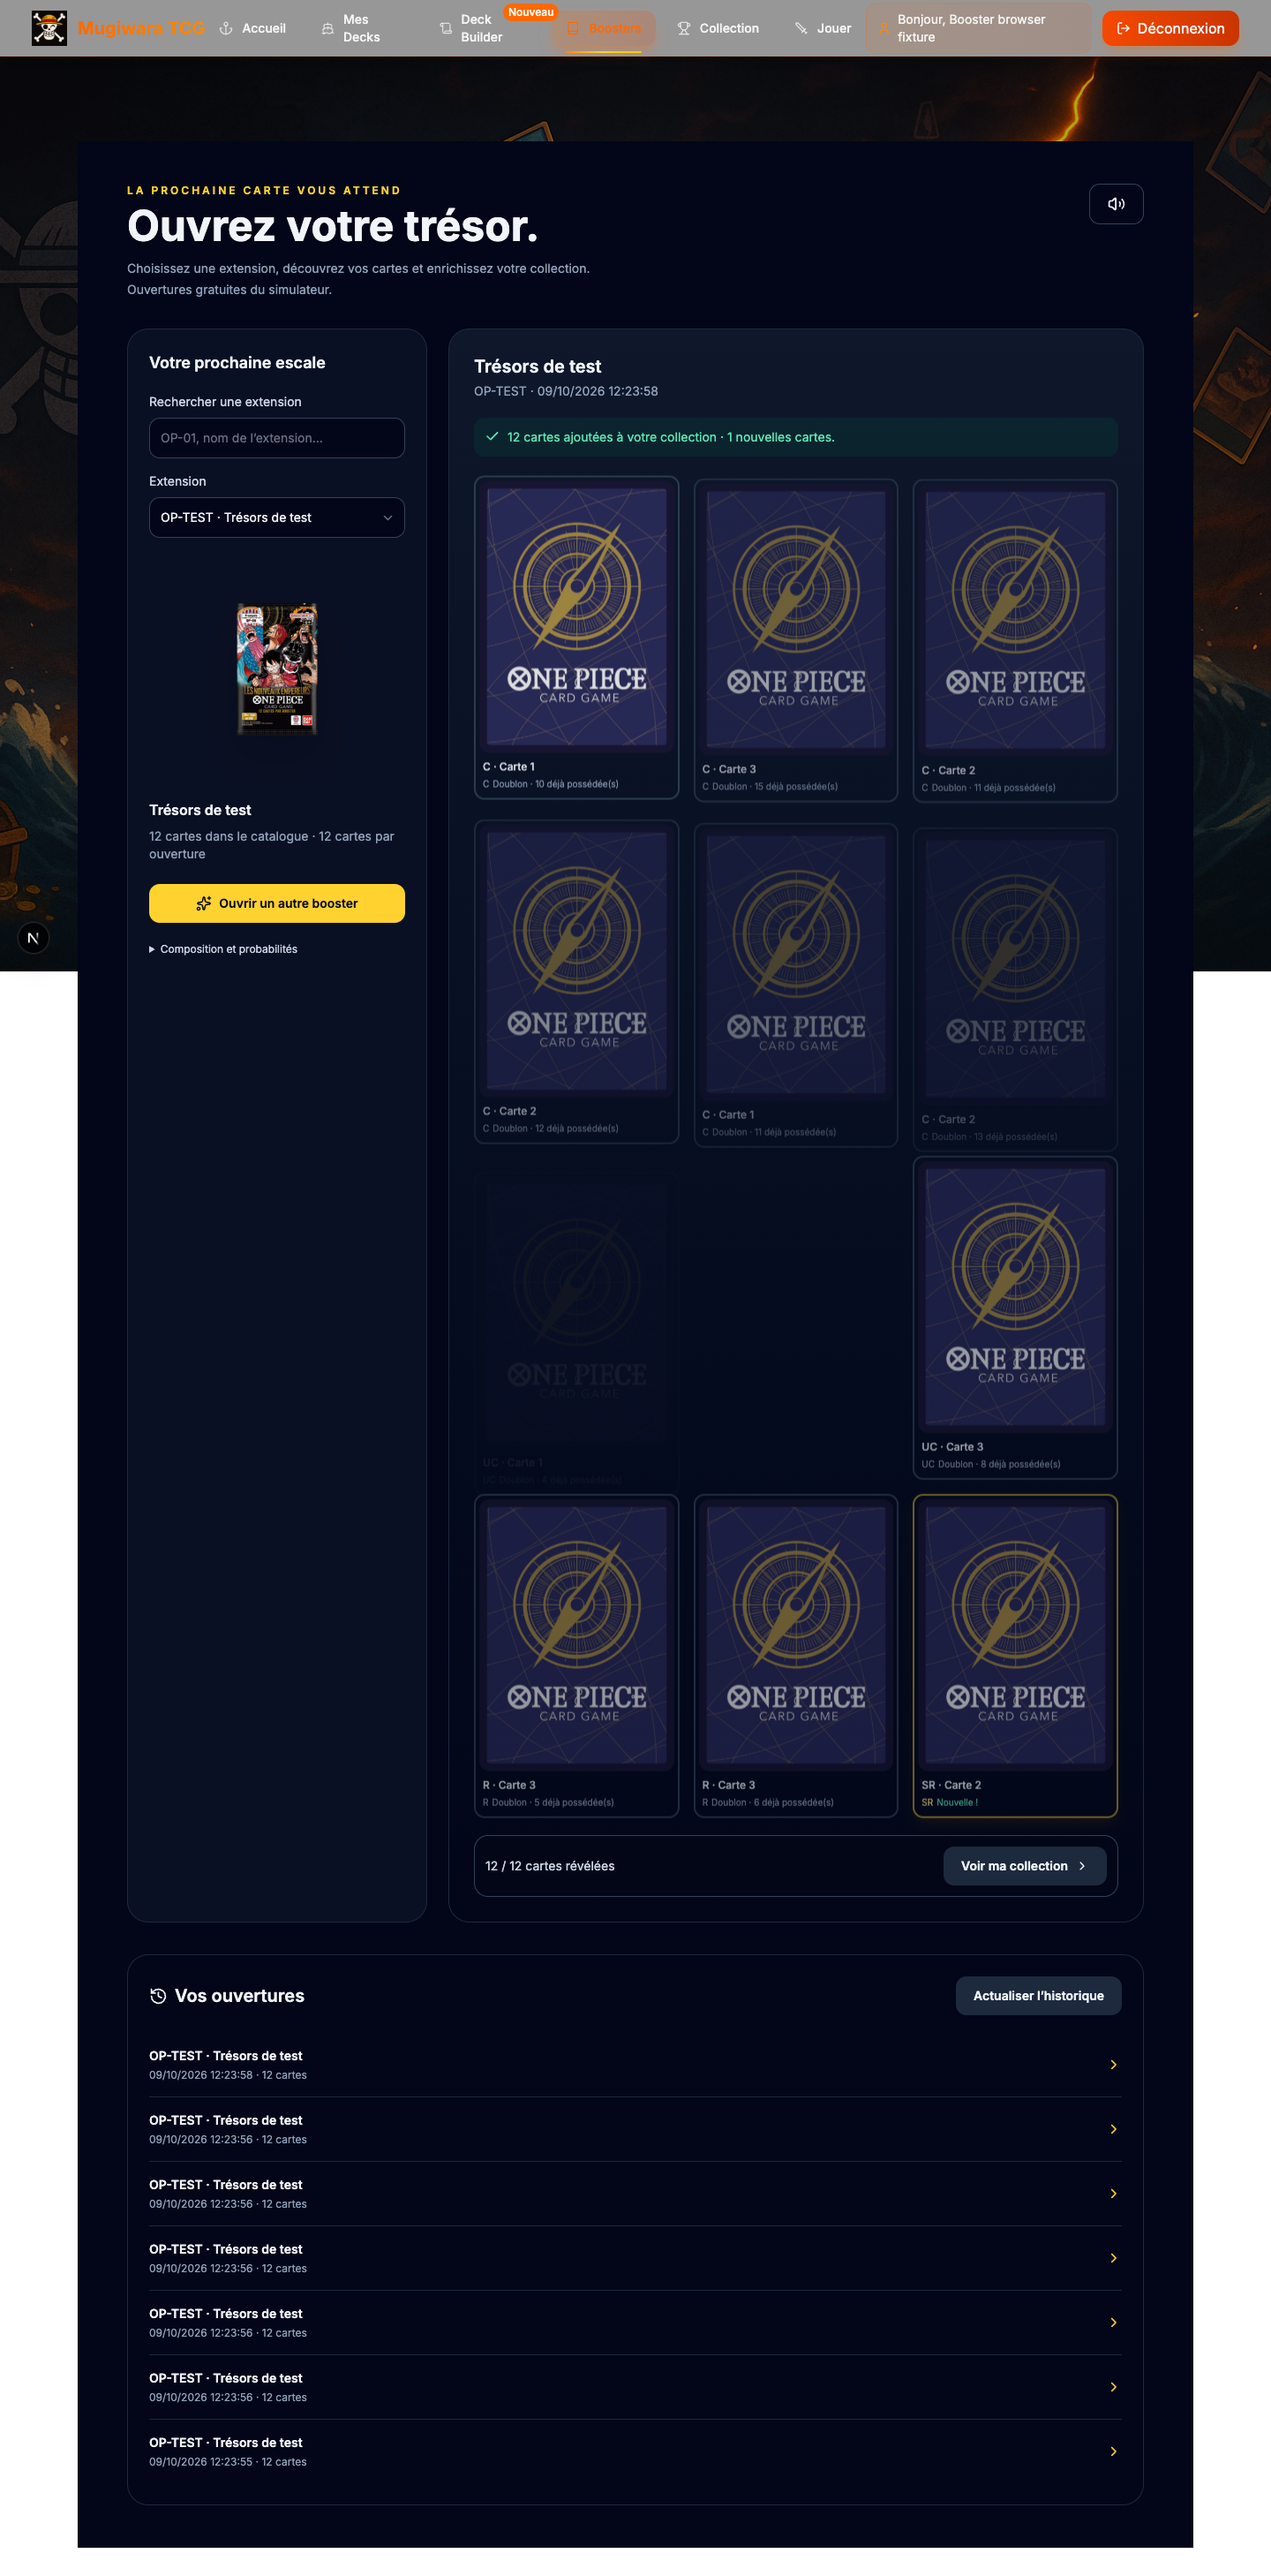
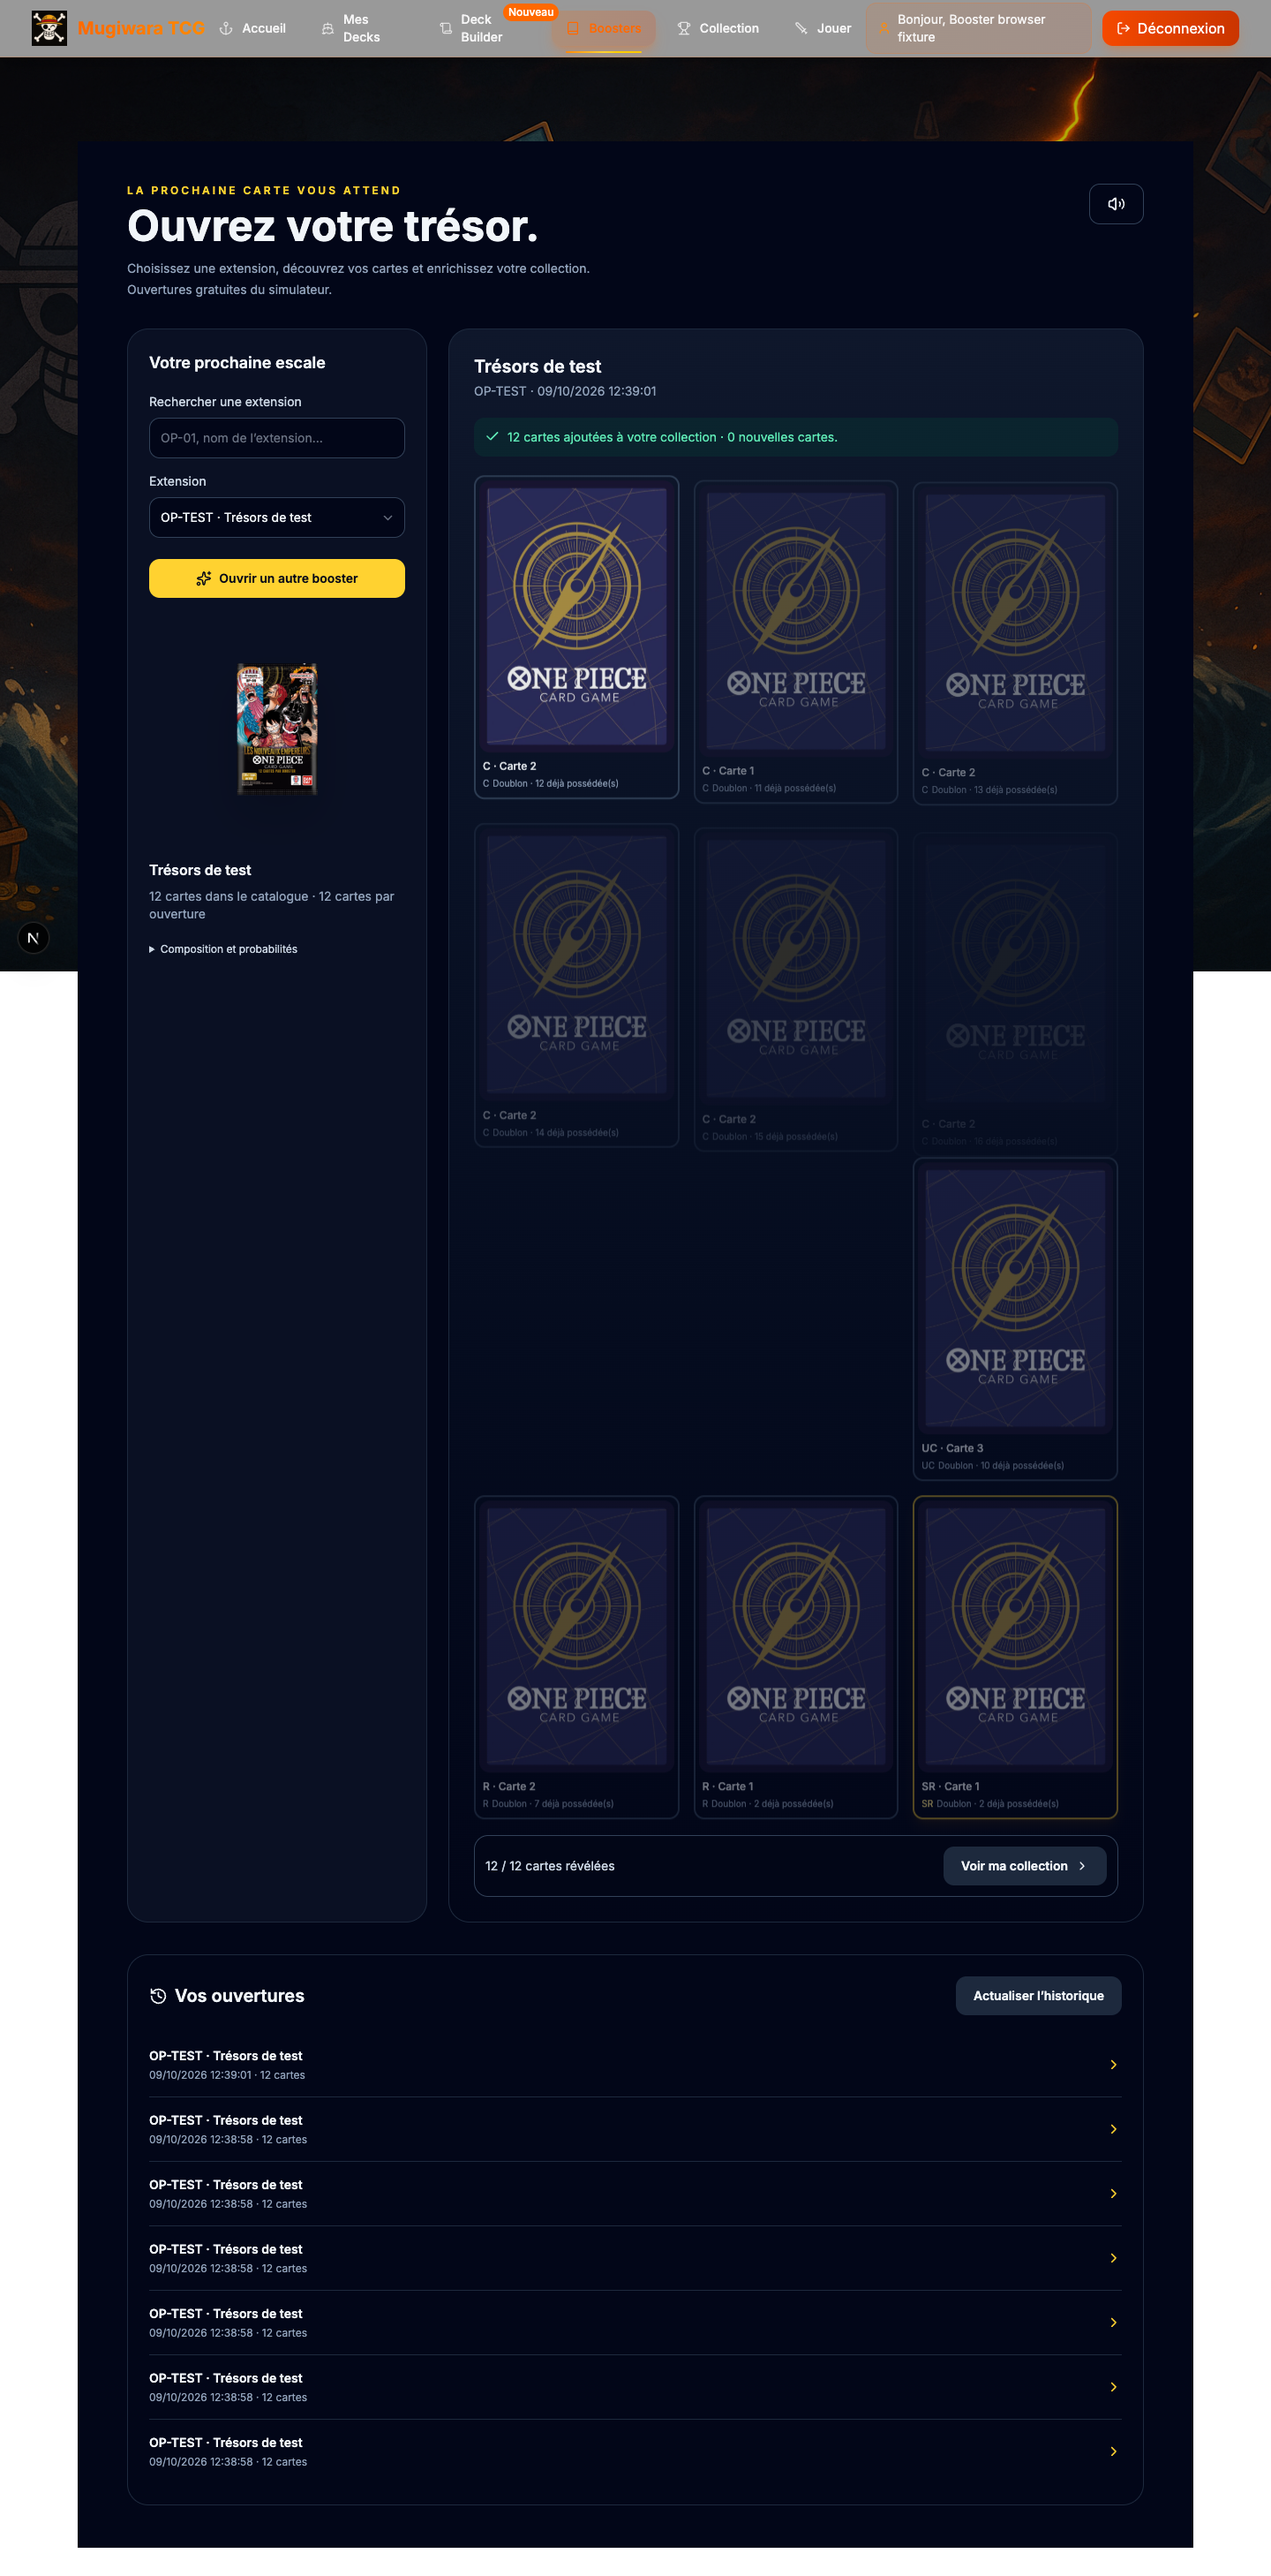
fix(boosters): make opening action easier to find

diff --git a/cardgame/src/components/booster-opening/BoosterExperience.tsx b/cardgame/src/components/booster-opening/BoosterExperience.tsx
@@ -106,7 +106,7 @@ export default function BoosterExperience() {
     if (!session?.user?.id || resumedUser.current === session.user.id) return
     resumedUser.current = session.user.id
     void api<{ sets: BoosterCatalogItem[] }>('/api/booster').then(data => {
-      setSets(data.sets); setSelectedSet(old => old || data.sets.find(set => set.available)?.code || data.sets[0]?.code || '')
+      setSets(data.sets); setSelectedSet(old => old || data.sets.find(set => set.code === 'OP-TEST' && set.available)?.code || data.sets.find(set => set.available)?.code || data.sets[0]?.code || '')
     }).catch(e => setCatalogError(e instanceof Error ? e.message : 'Extensions indisponibles'))
     void loadHistory()
     try {
@@ -189,9 +189,9 @@ export default function BoosterExperience() {
             {sets.filter(set => set.code === selectedSet || `${set.code} ${set.name}`.toLowerCase().includes(query.toLowerCase())).map(set => <option key={set.code} value={set.code}>{set.code} · {set.name}{!set.available ? ' · indisponible' : ''}</option>)}
           </select>
           {catalogError && <p role="alert" className="mt-4 text-red-300">{catalogError}</p>}
+          <button type="button" onClick={startOpening} disabled={!chosen?.available || busy || Boolean(pending && !pending.openingId) || Boolean(opening && revealed < opening.cards.length)} className={`${button} mt-6 w-full bg-amber-300 text-slate-950 hover:bg-amber-200`}><Sparkles size={18} />{busy ? 'Confirmation serveur…' : opening ? 'Ouvrir un autre booster' : 'Ouvrir le booster'}</button>
           <div className="relative mx-auto my-7 w-44 motion-safe:transition-transform motion-safe:hover:-rotate-3"><Image src={chosen?.imageUrl || '/images/booster-pack.png'} alt={`Booster ${chosen?.code || ''}`} width={200} height={280} sizes="176px" className="h-60 w-full object-contain drop-shadow-2xl" onError={e => { if (!e.currentTarget.dataset.fallback) { e.currentTarget.dataset.fallback = 'true'; e.currentTarget.srcset = ''; e.currentTarget.src = '/images/booster-pack.png' } }} /></div>
           {chosen && <><h3 className="font-semibold">{chosen.name}</h3><p className="mt-2 text-sm text-slate-400">{chosen.cardCount} cartes dans le catalogue{chosen.packSize ? ` · ${chosen.packSize} cartes par ouverture` : ''}</p>{chosen.description && <p className="mt-2 text-sm text-slate-400">{chosen.description}</p>}{!chosen.available && <p role="status" className="mt-4 rounded-xl bg-amber-950/40 p-3 text-sm text-amber-200">{chosen.error}</p>}</>}
-          <button type="button" onClick={startOpening} disabled={!chosen?.available || busy || Boolean(pending && !pending.openingId) || Boolean(opening && revealed < opening.cards.length)} className={`${button} mt-6 w-full bg-amber-300 text-slate-950 hover:bg-amber-200`}><Sparkles size={18} />{busy ? 'Confirmation serveur…' : opening ? 'Ouvrir un autre booster' : 'Ouvrir le booster'}</button>
           {chosen?.rules && <details className="mt-5 text-xs leading-5 text-slate-400"><summary className="cursor-pointer text-slate-300">Composition et probabilités</summary><p className="my-2">{chosen.rules.source}. Ces taux ne sont pas présentés comme des taux officiels.</p><ol className="list-inside list-decimal">{chosen.rules.slots.map((slot, i) => <li key={i}>{slot.choices.map(choice => `${choice.rarity}${choice.variant !== 'any' ? ` (${choice.variant})` : ''} : ${(100 * choice.weight / slot.choices.reduce((sum, item) => sum + item.weight, 0)).toFixed(1)} %`).join(' · ')}</li>)}</ol>{chosen.rules.specialPacks.map(pack => <p key={pack.label}>{pack.label} : {(pack.probability * 100).toFixed(1)} % des packs ; composition spéciale remplaçant les slots ci-dessus.</p>)}{chosen.warnings.map(warning => <p key={warning} className="mt-2">{warning}</p>)}</details>}
         </section>
         <section aria-label="Résultat de l’ouverture" className="min-w-0 rounded-3xl border border-slate-800 bg-gradient-to-b from-slate-900 to-slate-950 p-5 sm:p-7">

diff --git a/docs/boosters/TESTS.md b/docs/boosters/TESTS.md
@@ -96,3 +96,9 @@ Le script navigateur suppose Chrome macOS au chemin `/Applications/Google Chrome
 | Initialiseur en aperçu | PASS — aucune écriture, extensions incompatibles ignorées explicitement | npx tsx scripts/initBoosters.ts, sortie vérifiée |
 
 Échecs finaux : **0** dans les suites exécutées. La compilation de l'ensemble de l'application ne constitue pas un test fonctionnel des modules exclus. Les 12 vulnérabilités high signalées par npm ci concernent les dépendances déjà documentées dans la maintenance ; aucun audit fix --force exécuté et aucune dépendance changée pendant cette phase.
+
+## Ajustement de visibilité du bouton après retour utilisateur
+
+Le bouton « Ouvrir le booster » est remonté juste sous le sélecteur d'extension, avant l'illustration. Dans la base locale de démonstration, OP-TEST (« Trésors de test ») est sélectionné par défaut lorsqu'il est disponible ; les extensions sans ce code conservent leur sélection habituelle. Le bouton existait auparavant sous l'image et pouvait nécessiter de défiler sur mobile ; la page exacte du signalement n'a pas été confirmée.
+
+Validation : TypeScript PASS, ESLint ciblé PASS sans avertissement, 14 scénarios API/navigateur PASS rejoués. Les captures et browser-results.json sont actualisés. Le serveur reste ouvert dans le Terminal séparé demandé par l'utilisateur. La preuve du build de production ci-dessus concerne la validation précédente ; le build n'a pas été relancé pour ce déplacement d'interface pendant le serveur de développement.
